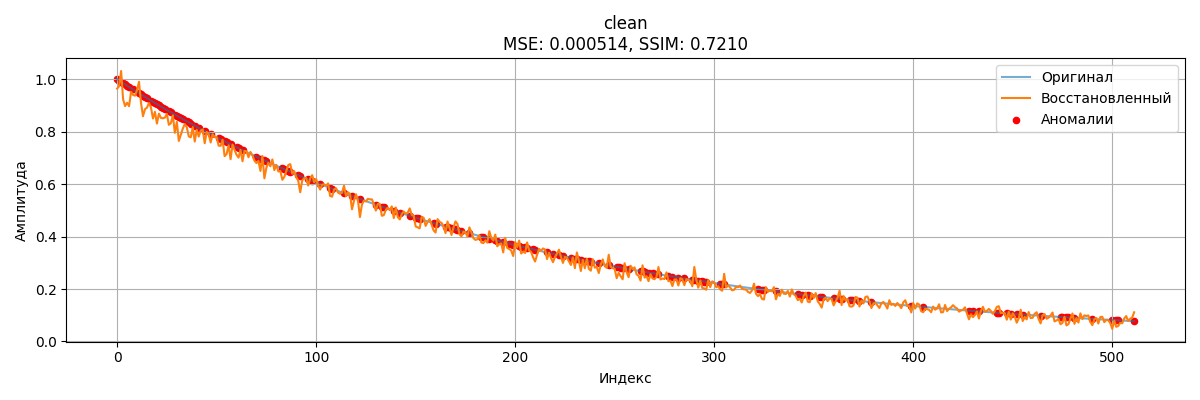
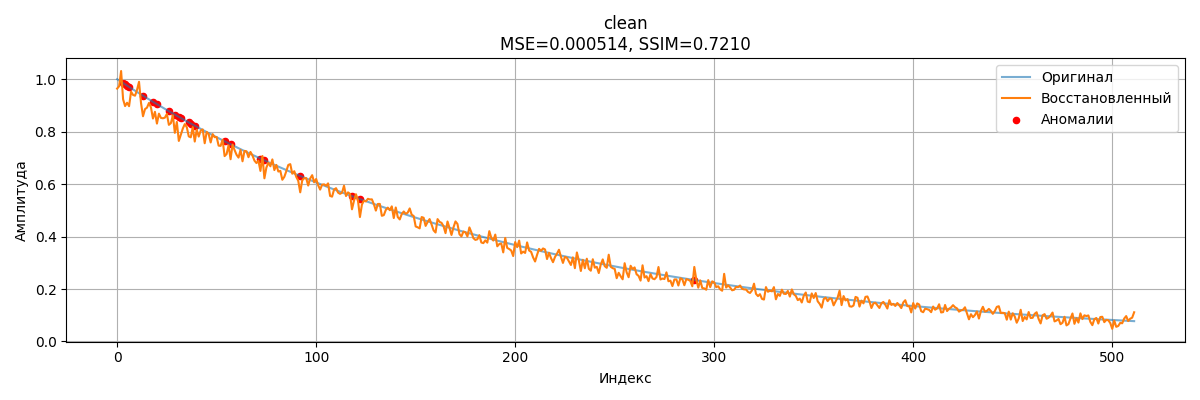
синтетические данные готовы

diff --git a/src/infer_interactive.py b/src/infer_interactive.py
@@ -2,14 +2,14 @@ import torch
 import torch.nn as nn
 import numpy as np
 import os
+import matplotlib
+matplotlib.use('Agg')
 import matplotlib.pyplot as plt
 import pandas as pd
 from skimage.metrics import structural_similarity as ssim
-import matplotlib
-matplotlib.use('Agg')
 
 WINDOW_SIZE = 512
-ANOMALY_THRESHOLD = 0.02  # чувствительность подсветки
+ANOMALY_THRESHOLD = 0.02  # фиксированный порог
 
 class Autoencoder(nn.Module):
     def __init__(self):
@@ -33,23 +33,21 @@ class Autoencoder(nn.Module):
         return self.decoder(self.encoder(x))
 
 
-def plot_comparison(original, reconstructed, diffs, title, save_path=None):
+def plot_comparison(original, reconstructed, anomalies, title, save_path):
     plt.figure(figsize=(12, 4))
     plt.plot(original, label="Оригинал", alpha=0.6)
     plt.plot(reconstructed, label="Восстановленный", linewidth=1.5)
-    if diffs.any():
-        plt.scatter(np.where(diffs)[0], original[diffs], color="red", label="Аномалии", s=20)
+    if anomalies.any():
+        plt.scatter(np.where(anomalies)[0], original[anomalies],
+                    color="red", label="Аномалии", s=20)
     plt.title(title)
     plt.xlabel("Индекс")
     plt.ylabel("Амплитуда")
     plt.legend()
     plt.grid(True)
     plt.tight_layout()
-    if save_path:
-        plt.savefig(save_path)
-        plt.close()
-    else:
-        plt.show()
+    plt.savefig(save_path)
+    plt.close()
 
 
 def infer_on_file(model, file_path, save_dir, log_path):
@@ -58,88 +56,119 @@ def infer_on_file(model, file_path, save_dir, log_path):
         print("⚠ Файл слишком короткий!")
         return
 
-    x = torch.tensor(signal[:WINDOW_SIZE], dtype=torch.float32).unsqueeze(0)
+    orig = signal[:WINDOW_SIZE]
+    x = torch.tensor(orig, dtype=torch.float32).unsqueeze(0)
     with torch.no_grad():
-        output = model(x).squeeze().numpy()
+        rec = model(x).squeeze().numpy()
 
-    mse = np.mean((signal[:WINDOW_SIZE] - output) ** 2)
-    sim = ssim(signal[:WINDOW_SIZE], output, data_range=signal[:WINDOW_SIZE].max() - signal[:WINDOW_SIZE].min())
-    diffs = np.abs(signal[:WINDOW_SIZE] - output) > ANOMALY_THRESHOLD
+    mse = np.mean((orig - rec) ** 2)
+    dr = orig.max() - orig.min()
+    sim = ssim(orig, rec, data_range=dr)
+
+    diffs = np.abs(orig - rec)
+
+    # 1) фиксированный порог
+    anoms_fix = diffs > ANOMALY_THRESHOLD
+    # 2) динамический порог: mean + 2*std
+    thr_dyn = diffs.mean() + 2 * diffs.std()
+    anoms_dyn = diffs > thr_dyn
+    # 3) percentile-порог (95%)
+    thr_pct = np.percentile(diffs, 95)
+    anoms_pct = diffs > thr_pct
 
     filename = os.path.splitext(os.path.basename(file_path))[0]
-    save_path = os.path.join(save_dir, f"{filename}_reconstructed.png")
 
-    print(f"\n✅ Результаты для {filename}:")
-    print(f"MSE:  {mse:.6f}")
-    print(f"SSIM: {sim:.4f}")
-    print(f"📸 Сохранено: {save_path}")
+    # Сохраняем гистограмму ошибок
+    hist_path = os.path.join(save_dir, f"{filename}_error_hist.png")
+    plt.figure(figsize=(6, 4))
+    plt.hist(diffs, bins=50, alpha=0.7)
+    plt.axvline(ANOMALY_THRESHOLD, color='r', linestyle='--',
+                label=f'fix {ANOMALY_THRESHOLD:.3f}')
+    plt.axvline(thr_dyn, color='g', linestyle='--',
+                label=f'dyn {thr_dyn:.3f}')
+    plt.axvline(thr_pct, color='b', linestyle='--',
+                label=f'95% {thr_pct:.3f}')
+    plt.legend()
+    plt.xlabel('Ошибка |оригинал – восстановление|')
+    plt.ylabel('Частота')
+    plt.tight_layout()
+    plt.savefig(hist_path)
+    plt.close()
 
-    plot_comparison(signal[:WINDOW_SIZE], output, diffs,
-                    title=f"{filename}\nMSE: {mse:.6f}, SSIM: {sim:.4f}",
-                    save_path=save_path)
+    # Сохраняем график восстановления (с динамическим порогом)
+    recon_path = os.path.join(save_dir, f"{filename}_reconstructed.png")
+    title = f"{filename}\nMSE={mse:.6f}, SSIM={sim:.4f}"
+    plot_comparison(orig, rec, anoms_dyn, title, recon_path)
 
-    # === лог в CSV
+    # Лог в CSV
     os.makedirs(os.path.dirname(log_path), exist_ok=True)
     row = pd.DataFrame([{
         "file": filename,
         "mse": mse,
         "ssim": sim,
-        "anomalies_detected": int(diffs.sum())
+        "anom_fix": int(anoms_fix.sum()),
+        "anom_dyn": int(anoms_dyn.sum()),
+        "anom_pct": int(anoms_pct.sum())
     }])
     if os.path.exists(log_path):
         row.to_csv(log_path, mode="a", header=False, index=False)
     else:
         row.to_csv(log_path, index=False)
 
+    # Консольный вывод
+    print(f"\n✅ {filename}: MSE={mse:.6f}, SSIM={sim:.4f}")
+    print(f" Аномалий fix/dyn/pct: {anoms_fix.sum()}/{anoms_dyn.sum()}/{anoms_pct.sum()}")
+    print(f"📊 Гистограмма сохранена: {os.path.basename(hist_path)}")
+    print(f"📸 Реконструкция сохранена: {os.path.basename(recon_path)}")
+
 
 if __name__ == "__main__":
-    root = os.path.dirname(os.path.dirname(os.path.abspath(__file__)))
+    root       = os.path.dirname(os.path.dirname(os.path.abspath(__file__)))
     model_path = os.path.join(root, "models", "autoencoder_synthetic.pth")
-    save_dir = os.path.join(root, "data", "inference_samples")
-    log_path = os.path.join(save_dir, "inference_samples_log.csv")
+    save_dir   = os.path.join(root, "data", "inference_samples")
+    log_path   = os.path.join(save_dir, "inference_samples_log.csv")
     os.makedirs(save_dir, exist_ok=True)
 
+    # Загружаем модель
     model = Autoencoder()
     model.load_state_dict(torch.load(model_path, map_location="cpu"))
     model.eval()
 
     data_dir = os.path.join(root, "data")
-
     while True:
-        available_dirs = [d for d in os.listdir(data_dir) if os.path.isdir(os.path.join(data_dir, d))]
+        # 1) Список папок
+        dirs = [d for d in os.listdir(data_dir) if os.path.isdir(os.path.join(data_dir, d))]
         print("\n📁 Доступные папки:")
-        for i, name in enumerate(available_dirs):
-            print(f"{i+1}. {name}")
+        for i, d in enumerate(dirs, 1):
+            print(f"{i}. {d}")
 
         try:
-            d_idx = int(input("Выберите номер папки (или 0 для выхода): ")) - 1
-            if d_idx == -1:
-                print("👋 Выход.")
+            d_idx = int(input("Выберите номер папки (0 — выход): "))
+            if d_idx == 0:
                 break
-            assert 0 <= d_idx < len(available_dirs)
+            target_dir = os.path.join(data_dir, dirs[d_idx-1])
         except:
-            print("❌ Неверный выбор папки.")
+            print("❌ Неверный ввод, попробуйте ещё раз.")
             continue
 
-        target_dir = os.path.join(data_dir, available_dirs[d_idx])
+        # 2) Список файлов .npy в выбранной папке
         files = [f for f in os.listdir(target_dir) if f.endswith(".npy")]
-
         if not files:
-            print("❌ Нет .npy файлов в выбранной папке.")
+            print("❌ В папке нет .npy файлов.")
             continue
 
-        print(f"\n📂 Файлы в {available_dirs[d_idx]}:")
-        for i, f in enumerate(files):
-            print(f"{i + 1}. {f}")
+        print(f"\n📂 Файлы в «{dirs[d_idx-1]}»:")
+        for i, f in enumerate(files, 1):
+            print(f"{i}. {f}")
 
         try:
-            f_idx = int(input("Выберите номер файла (или 0 для новой папки): ")) - 1
-            if f_idx == -1:
+            f_idx = int(input("Выберите номер файла (0 — выбрать папку): "))
+            if f_idx == 0:
                 continue
-            assert 0 <= f_idx < len(files)
+            file_path = os.path.join(target_dir, files[f_idx-1])
         except:
-            print("❌ Неверный выбор файла.")
+            print("❌ Неверный ввод, попробуйте ещё раз.")
             continue
 
-        selected_path = os.path.join(target_dir, files[f_idx])
-        infer_on_file(model, selected_path, save_dir, log_path)
+        # 3) Запуск инференса
+        infer_on_file(model, file_path, save_dir, log_path)
